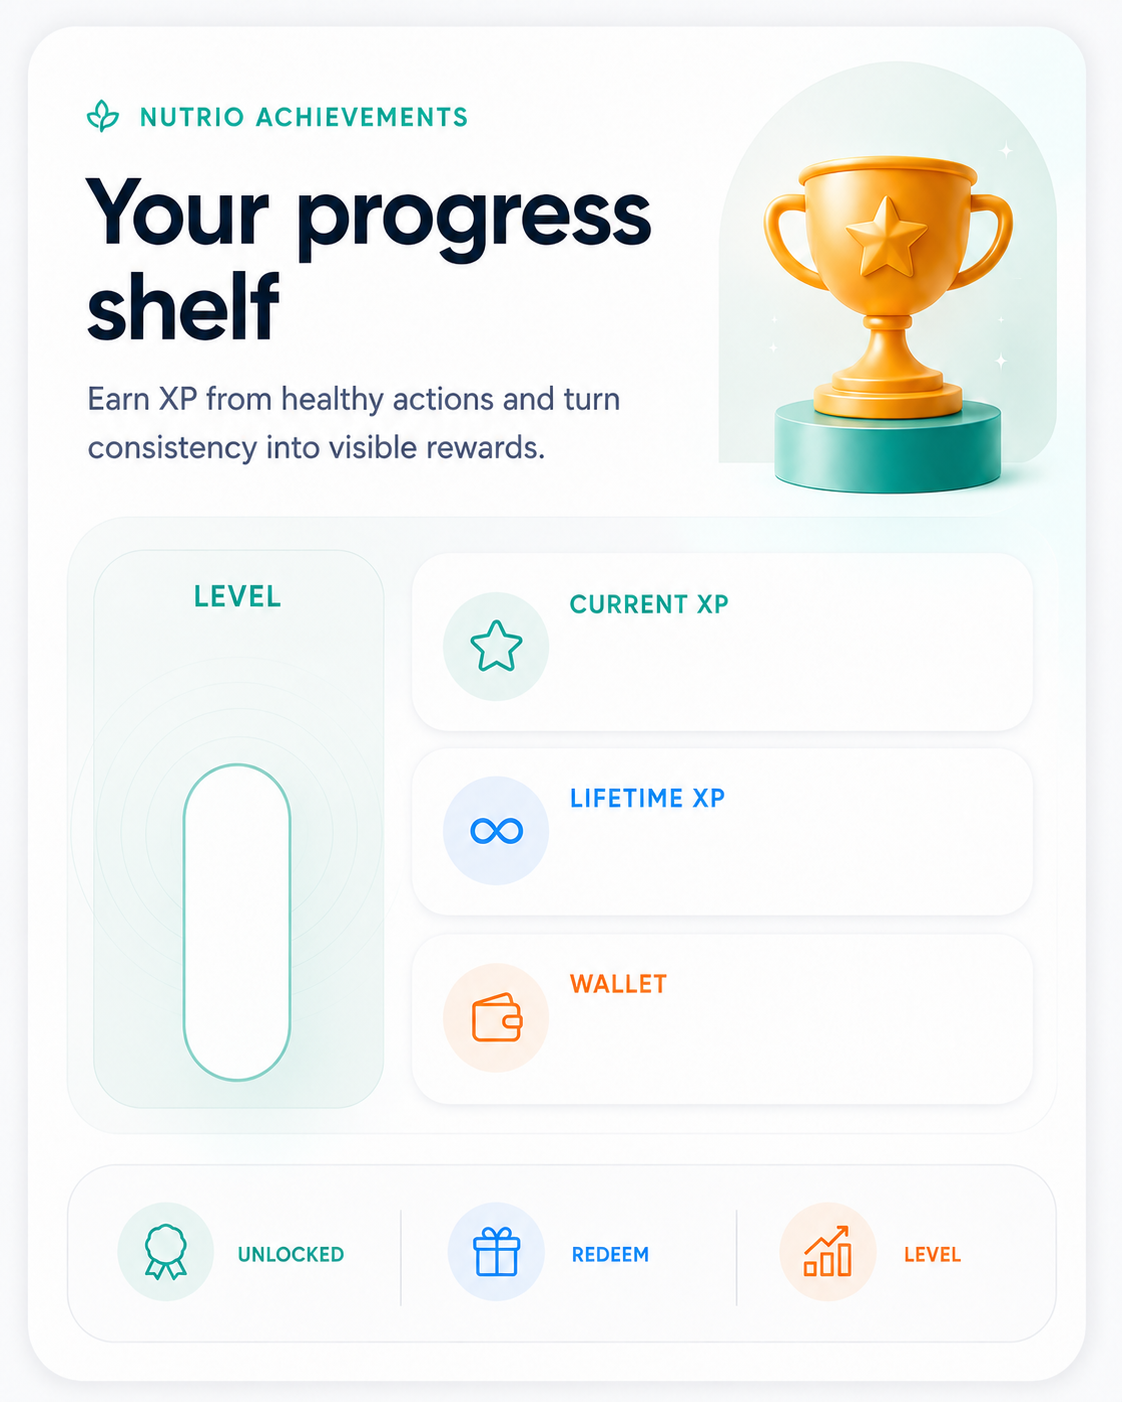
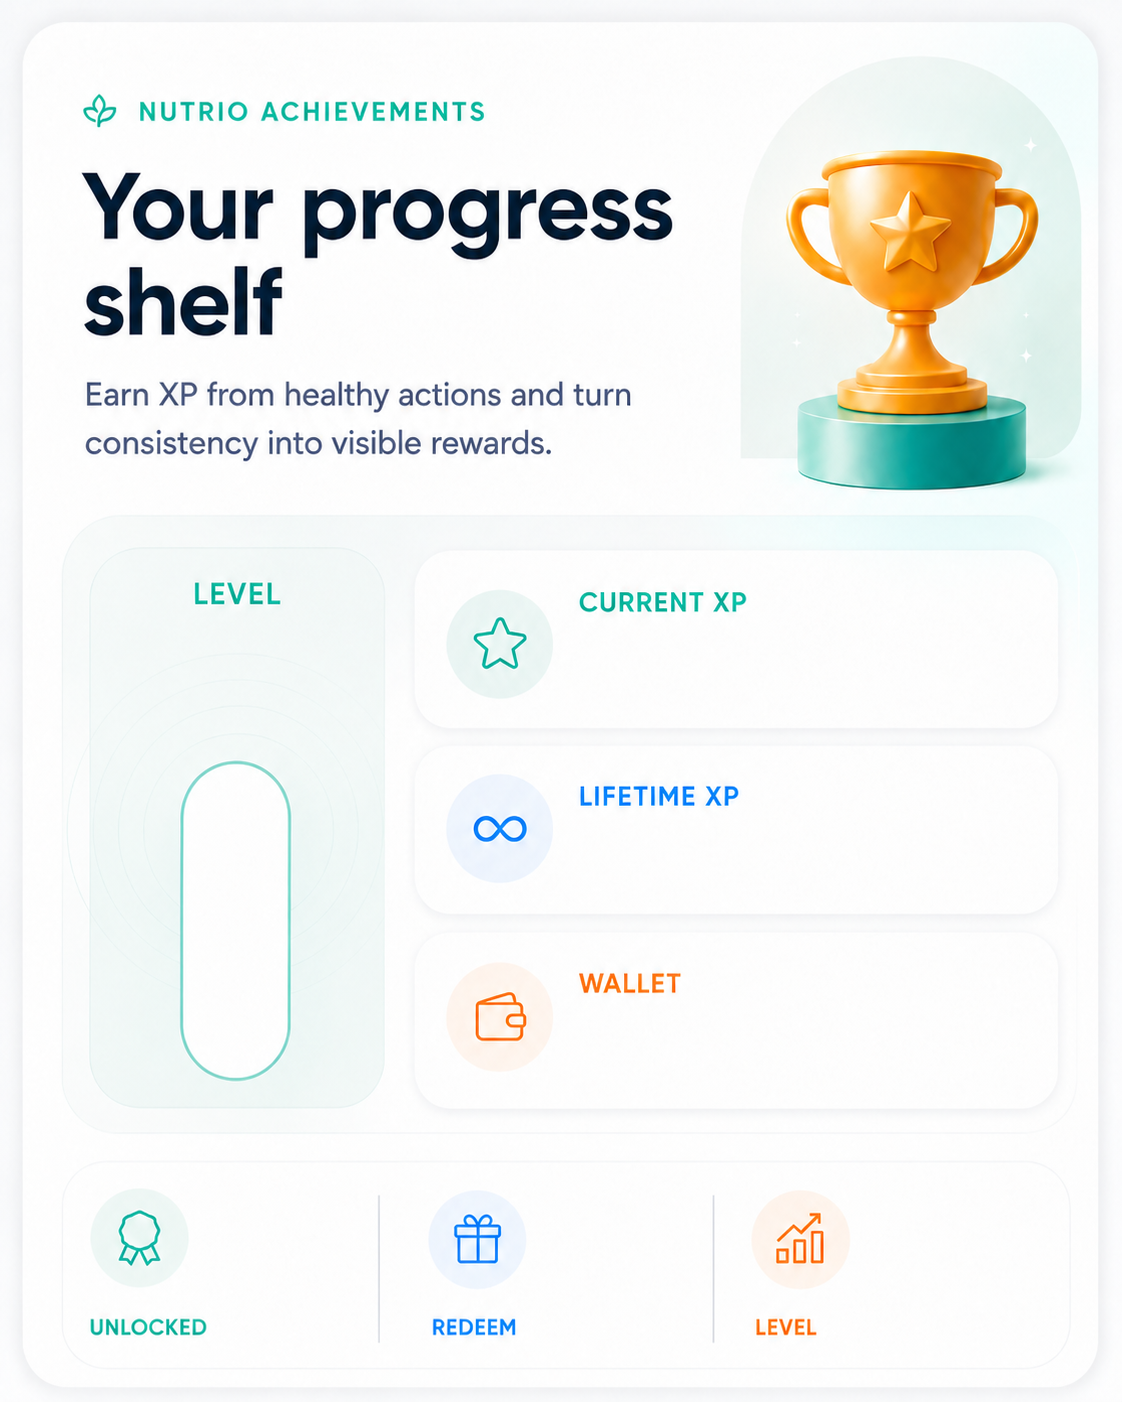
feat(rewards): add earn actions image card and rewards tab bar
Ultraworked with [Sisyphus](https://github.com/code-yeongyu/oh-my-openagent)

diff --git a/src/pages/Rewards.tsx b/src/pages/Rewards.tsx
@@ -4,23 +4,22 @@ import { useNavigate } from "react-router-dom";
 import { motion } from "framer-motion";
 import {
   ArrowLeft,
-  Award,
-  BadgeCheck,
   CheckCircle2,
   ChevronRight,
   Gift,
-  History,
   Lock,
   RefreshCw,
   ShieldCheck,
   Sparkles,
   Star,
-  TicketPercent,
   WalletCards,
   Zap,
 } from "lucide-react";
 
 import { AchievementsProgressCard } from "@/components/rewards/AchievementsProgressCard";
+import { EarnActionsImageCard } from "@/components/rewards/EarnActionsImageCard";
+import { RewardsTabBar } from "@/components/rewards/RewardsTabBar";
+import type { RewardsTabKey } from "@/components/rewards/RewardsTabBar";
 import { useAuth } from "@/contexts/AuthContext";
 import { useLanguage } from "@/contexts/LanguageContext";
 import { useBadges } from "@/hooks/useBadges";
@@ -30,7 +29,7 @@ import { supabase } from "@/integrations/supabase/client";
 import type { BadgeRarity, UserBadge } from "@/lib/badges";
 import { cn } from "@/lib/utils";
 
-type HubTab = "earn" | "badges" | "redeem" | "activity";
+type HubTab = RewardsTabKey;
 
 type XpTransaction = {
   id: string;
@@ -332,39 +331,12 @@ export default function Rewards() {
           loading={isBusy}
         />
 
-        <nav
-          aria-label={labels.title}
-          className="sticky top-[76px] z-20 mt-4 grid h-14 grid-cols-4 rounded-[22px] border border-white bg-white/92 p-1.5 shadow-[0_10px_24px_rgba(12,18,34,0.08)] backdrop-blur-xl"
-          role="tablist"
-        >
-          {[
-            { key: "earn", label: labels.market, Icon: Award, color: "#20C7A5" },
-            { key: "badges", label: labels.badges, Icon: BadgeCheck, color: "#6A61F6" },
-            { key: "redeem", label: labels.redeem, Icon: TicketPercent, color: "#F97316" },
-            { key: "activity", label: labels.activity, Icon: History, color: "#38BDF8" },
-          ].map((tab) => {
-            const key = tab.key as HubTab;
-            const selected = activeTab === key;
-            return (
-              <button
-                key={tab.key}
-                type="button"
-                role="tab"
-                aria-selected={selected}
-                onClick={() => setActiveTab(key)}
-                className={cn(
-                  "relative flex min-w-0 flex-col items-center justify-center rounded-[16px] text-[10px] font-black transition focus-visible:outline-none focus-visible:ring-2 focus-visible:ring-[#22C7A1]/40",
-                  selected
-                    ? "bg-[#E9FBF7] text-[#0F9F83] shadow-[0_7px_16px_rgba(32,199,165,0.12)] ring-1 ring-[#20C7A5]/20"
-                    : "text-[#6E7689] active:bg-[#F6F8FC]",
-                )}
-              >
-                <tab.Icon className="h-4 w-4" style={{ color: selected ? "#0F9F83" : tab.color }} aria-hidden="true" />
-                <span className="mt-0.5 truncate px-1">{tab.label}</span>
-              </button>
-            );
-          })}
-        </nav>
+        <RewardsTabBar
+          activeTab={activeTab}
+          labels={{ earn: labels.market, badges: labels.badges, redeem: labels.redeem, activity: labels.activity }}
+          onTabChange={setActiveTab}
+          ariaLabel={labels.title}
+        />
 
         {loadError && (
           <ErrorState
@@ -395,22 +367,12 @@ export default function Rewards() {
 
             <section>
               <SectionHeading title={labels.waysTitle} subtitle={labels.waysBody} />
-              <div className="grid grid-cols-2 gap-3">
-                <EarnActionCard
-                  icon={<Award className="h-5 w-5" />}
-                  title={labels.logMeal}
-                  body={labels.logMealBody}
-                  tone="mint"
-                  onClick={() => navigate("/meals")}
-                />
-                <EarnActionCard
-                  icon={<Zap className="h-5 w-5" />}
-                  title={labels.hydrate}
-                  body={labels.hydrateBody}
-                  tone="sky"
-                  onClick={() => navigate("/water-tracker")}
-                />
-              </div>
+              <EarnActionsImageCard
+                mealLabel={labels.logMeal}
+                waterLabel={labels.hydrate}
+                onLogMeal={() => navigate("/meals")}
+                onTrackWater={() => navigate("/water-tracker")}
+              />
             </section>
 
             <SectionHeading title={labels.badgeMarket} subtitle={labels.badgeMarketBody} count={featuredBadges.length} />
@@ -615,51 +577,6 @@ function RewardFeatureCard({
         </div>
       </div>
     </article>
-  );
-}
-
-function EarnActionCard({
-  icon,
-  title,
-  body,
-  tone,
-  onClick,
-}: {
-  icon: ReactNode;
-  title: string;
-  body: string;
-  tone: "mint" | "sky";
-  onClick: () => void;
-}) {
-  const tones = {
-    mint: {
-      shell: "border-[#20C7A5]/20 bg-[#20C7A5]/8",
-      icon: "bg-white text-[#20C7A5] ring-[#20C7A5]/18",
-      action: "text-[#138C76]",
-    },
-    sky: {
-      shell: "border-[#2BB9F3]/20 bg-[#2BB9F3]/8",
-      icon: "bg-white text-[#2BB9F3] ring-[#2BB9F3]/18",
-      action: "text-[#167FB0]",
-    },
-  }[tone];
-
-  return (
-    <button
-      type="button"
-      onClick={onClick}
-      className={cn("min-h-[132px] rounded-[24px] border p-3.5 text-start shadow-[0_12px_24px_rgba(12,18,34,0.045)] active:scale-[0.99]", tones.shell)}
-    >
-      <div className={cn("grid h-11 w-11 place-items-center rounded-[16px] ring-1", tones.icon)}>
-        {icon}
-      </div>
-      <h3 className="mt-3 text-[14px] font-black leading-tight text-[#0C1222]">{title}</h3>
-      <p className="mt-1 text-[11px] font-bold leading-4 text-[#6E7689]">{body}</p>
-      <span className={cn("mt-3 inline-flex items-center gap-1 text-[11px] font-black", tones.action)}>
-        {title}
-        <ChevronRight className="h-3.5 w-3.5 rtl-flip" />
-      </span>
-    </button>
   );
 }
 

diff --git a/src/components/rewards/RewardsTabBar.tsx b/src/components/rewards/RewardsTabBar.tsx
@@ -1,0 +1,96 @@
+import type { LucideIcon } from "lucide-react";
+import { Award, BadgeCheck, History, TicketPercent } from "lucide-react";
+
+import { cn } from "@/lib/utils";
+
+export type RewardsTabKey = "earn" | "badges" | "redeem" | "activity";
+
+type RewardsTabLabels = Record<RewardsTabKey, string>;
+
+type RewardsTabBarProps = {
+  activeTab: RewardsTabKey;
+  labels: RewardsTabLabels;
+  onTabChange: (tab: RewardsTabKey) => void;
+  ariaLabel: string;
+  className?: string;
+};
+
+type RewardsTabItem = {
+  key: RewardsTabKey;
+  Icon: LucideIcon;
+  accent: string;
+  tint: string;
+  ring: string;
+};
+
+const tabs: RewardsTabItem[] = [
+  { key: "earn", Icon: Award, accent: "#0CA891", tint: "#E9FBF7", ring: "rgba(12,168,145,0.18)" },
+  { key: "badges", Icon: BadgeCheck, accent: "#6A61F6", tint: "#F0EFFF", ring: "rgba(106,97,246,0.18)" },
+  { key: "redeem", Icon: TicketPercent, accent: "#F06400", tint: "#FFF3EA", ring: "rgba(240,100,0,0.18)" },
+  { key: "activity", Icon: History, accent: "#1A86E8", tint: "#ECF6FF", ring: "rgba(26,134,232,0.18)" },
+];
+
+export function RewardsTabBar({ activeTab, labels, onTabChange, ariaLabel, className }: RewardsTabBarProps) {
+  return (
+    <nav
+      aria-label={ariaLabel}
+      className={cn(
+        "sticky top-[76px] z-20 mt-4 grid h-[72px] grid-cols-4 gap-1 rounded-[20px] border border-[#E1E8EF] bg-white p-2 shadow-[0_12px_30px_rgba(24,48,72,0.08)]",
+        className,
+      )}
+      role="tablist"
+    >
+      {tabs.map(({ key, Icon, accent, tint, ring }) => {
+        const selected = activeTab === key;
+
+        return (
+          <button
+            key={key}
+            type="button"
+            role="tab"
+            aria-selected={selected}
+            data-state={selected ? "active" : "inactive"}
+            onClick={() => onTabChange(key)}
+            className={cn(
+              "group relative flex min-w-0 flex-col items-center justify-center gap-1 rounded-[13px] px-1 transition-[background-color,transform] duration-200 focus-visible:outline-none focus-visible:ring-2 focus-visible:ring-[#20C7A5]/35 active:scale-[0.97]",
+              selected ? "bg-[#F8FBFC]" : "hover:bg-[#F8FAFC]",
+            )}
+            style={{ color: selected ? accent : "#718096" }}
+          >
+            <span
+              aria-hidden="true"
+              className="grid h-8 w-8 place-items-center rounded-full transition-[background-color,color,box-shadow,transform] duration-200 group-active:scale-95"
+              style={
+                selected
+                  ? {
+                      backgroundColor: accent,
+                      color: "#FFFFFF",
+                      boxShadow: `0 7px 16px ${ring}`,
+                    }
+                  : {
+                      backgroundColor: tint,
+                      color: accent,
+                    }
+              }
+            >
+              <Icon className="h-[17px] w-[17px]" strokeWidth={2.2} />
+            </span>
+
+            <span className={cn("truncate text-[10px] leading-none", selected ? "font-extrabold" : "font-bold")}>
+              {labels[key]}
+            </span>
+
+            <span
+              aria-hidden="true"
+              className={cn(
+                "absolute bottom-0 h-[3px] rounded-full transition-[width,opacity] duration-200",
+                selected ? "w-5 opacity-100" : "w-0 opacity-0",
+              )}
+              style={{ backgroundColor: accent }}
+            />
+          </button>
+        );
+      })}
+    </nav>
+  );
+}

diff --git a/src/components/rewards/EarnActionsImageCard.tsx b/src/components/rewards/EarnActionsImageCard.tsx
@@ -1,0 +1,51 @@
+import trackActionsArtwork from "@/assets/rewards/track-actions.png";
+import { cn } from "@/lib/utils";
+
+type EarnActionsImageCardProps = {
+  mealLabel: string;
+  waterLabel: string;
+  onLogMeal: () => void;
+  onTrackWater: () => void;
+  className?: string;
+};
+
+export function EarnActionsImageCard({
+  mealLabel,
+  waterLabel,
+  onLogMeal,
+  onTrackWater,
+  className,
+}: EarnActionsImageCardProps) {
+  return (
+    <div
+      className={cn(
+        "relative aspect-[1448/1086] w-full overflow-hidden rounded-[22px] bg-white shadow-[0_14px_34px_rgba(24,48,72,0.07)]",
+        className,
+      )}
+    >
+      <img
+        src={trackActionsArtwork}
+        alt=""
+        aria-hidden="true"
+        className="pointer-events-none absolute inset-0 h-full w-full select-none object-cover"
+        draggable={false}
+      />
+
+      <button
+        type="button"
+        onClick={onLogMeal}
+        aria-label={mealLabel}
+        data-testid="rewards-log-meal-action"
+        className="absolute bottom-[8.5%] left-[5.2%] top-[10.2%] w-[43.2%] rounded-[18px] transition-colors hover:bg-[#20C7A5]/[0.025] focus-visible:outline-none focus-visible:ring-2 focus-visible:ring-inset focus-visible:ring-[#20C7A5]/55 active:bg-[#20C7A5]/[0.055]"
+      />
+
+      <button
+        type="button"
+        onClick={onTrackWater}
+        aria-label={waterLabel}
+        data-testid="rewards-track-water-action"
+        className="absolute bottom-[8.5%] right-[4.6%] top-[10.2%] w-[43.2%] rounded-[18px] transition-colors hover:bg-[#1A86E8]/[0.025] focus-visible:outline-none focus-visible:ring-2 focus-visible:ring-inset focus-visible:ring-[#1A86E8]/55 active:bg-[#1A86E8]/[0.055]"
+      />
+    </div>
+  );
+}

diff --git a/src/components/rewards/AchievementsProgressCard.tsx b/src/components/rewards/AchievementsProgressCard.tsx
@@ -60,16 +60,16 @@ export function AchievementsProgressCard({
           src={achievementCardArt}
           alt=""
           aria-hidden="true"
-          className="pointer-events-none absolute inset-0 h-full w-full select-none object-cover"
+          className="pointer-events-none absolute inset-0 z-0 h-full w-full select-none object-cover"
           draggable={false}
         />
 
         <div
-          className="absolute left-[14.5%] top-[61.2%] h-[21.5%] w-[10.3%] overflow-hidden rounded-full"
+          className="absolute left-[16.2%] top-[54.7%] z-[1] h-[22.5%] w-[9.8%] overflow-hidden rounded-full p-[2px]"
           aria-hidden="true"
         >
           <div
-            className="absolute inset-x-0 bottom-0 rounded-full bg-gradient-to-t from-[#7AD7C8] via-[#20C7A5] to-[#61E8C6] shadow-[0_-10px_28px_rgba(32,199,165,0.24)]"
+            className="absolute bottom-[2px] left-[1px] right-[2px] rounded-full bg-gradient-to-t from-[#7AD7C8] via-[#20C7A5] to-[#61E8C6] shadow-[0_-8px_22px_rgba(32,199,165,0.22)] transition-[height] duration-500"
             style={{ height: `${progress}%` }}
           />
         </div>
@@ -78,15 +78,15 @@ export function AchievementsProgressCard({
           label="Current level"
           value={formatNumber(currentLevel)}
           loading={loading}
-          className="left-[13.6%] top-[66.6%] grid h-[9.2%] w-[12.2%] place-items-center rounded-full bg-white/90 text-center text-[24px] font-black tracking-[-0.04em] text-[#0C1222] shadow-[0_8px_18px_rgba(12,18,34,0.08)] ring-1 ring-white/80 backdrop-blur"
-          skeletonClassName="h-7 w-9"
+          className="left-[16.2%] top-[54.7%] z-10 grid h-[22.5%] w-[9.8%] place-items-center text-center text-[clamp(18px,5.5vw,24px)] font-black tracking-[-0.04em] text-[#0C1222] [text-shadow:0_1px_8px_rgba(255,255,255,0.95)]"
+          skeletonClassName="h-6 w-8"
         />
 
         <DynamicValue
           label="Current XP"
           value={formatNumber(currentXp)}
           loading={loading}
-          className="right-[8.6%] top-[43.1%] w-[24%] text-right text-[22px] font-black tracking-[-0.03em] text-[#0CA891]"
+          className="right-[8%] top-[43.7%] w-[25%] text-right text-[clamp(18px,5.2vw,22px)] font-black tracking-[-0.03em] text-[#0CA891]"
           skeletonClassName="ml-auto h-6 w-20"
         />
 
@@ -94,7 +94,7 @@ export function AchievementsProgressCard({
           label="Lifetime XP"
           value={formatNumber(lifetimeXp)}
           loading={loading}
-          className="right-[8.6%] top-[56.2%] w-[24%] text-right text-[22px] font-black tracking-[-0.03em] text-[#1A86E8]"
+          className="right-[8%] top-[56.8%] w-[25%] text-right text-[clamp(18px,5.2vw,22px)] font-black tracking-[-0.03em] text-[#1A86E8]"
           skeletonClassName="ml-auto h-6 w-20"
         />
 
@@ -102,7 +102,7 @@ export function AchievementsProgressCard({
           label="Wallet balance"
           value={formatCurrency(walletBalance)}
           loading={loading}
-          className="right-[6.4%] top-[69%] w-[33%] text-right text-[19px] font-black tracking-[-0.01em] text-[#F06400]"
+          className="right-[8%] top-[69.9%] w-[31%] text-right text-[clamp(15px,4.7vw,20px)] font-black tracking-[-0.02em] text-[#F06400]"
           skeletonClassName="ml-auto h-6 w-24"
         />
 
@@ -110,7 +110,7 @@ export function AchievementsProgressCard({
           label="Unlocked achievements"
           value={unlockedValue}
           loading={loading}
-          className="left-[23.4%] top-[82.65%] w-[13.4%] text-center text-[17px] font-black tracking-[-0.03em] text-[#0C1222]"
+          className="left-[18.6%] top-[84.35%] w-[14.4%] text-center text-[clamp(14px,4.1vw,17px)] font-black tracking-[-0.03em] text-[#0C1222]"
           skeletonClassName="mx-auto h-5 w-12"
         />
 
@@ -118,7 +118,7 @@ export function AchievementsProgressCard({
           label="Redeemed rewards"
           value={formatNumber(redeemedRewards)}
           loading={loading}
-          className="left-[53.1%] top-[82.65%] w-[10.4%] text-center text-[17px] font-black tracking-[-0.03em] text-[#0C1222]"
+          className="left-[48.5%] top-[84.35%] w-[12.6%] text-center text-[clamp(14px,4.1vw,17px)] font-black tracking-[-0.03em] text-[#0C1222]"
           skeletonClassName="mx-auto h-5 w-8"
         />
 
@@ -126,7 +126,7 @@ export function AchievementsProgressCard({
           label="Level progress"
           value={`${Math.round(progress)}%`}
           loading={loading}
-          className="right-[5.6%] top-[82.65%] w-[15.8%] text-center text-[17px] font-black tracking-[-0.03em] text-[#F06400]"
+          className="right-[8.2%] top-[84.35%] w-[16.2%] text-center text-[clamp(14px,4.1vw,17px)] font-black tracking-[-0.03em] text-[#F06400]"
           skeletonClassName="mx-auto h-5 w-10"
         />
       </div>